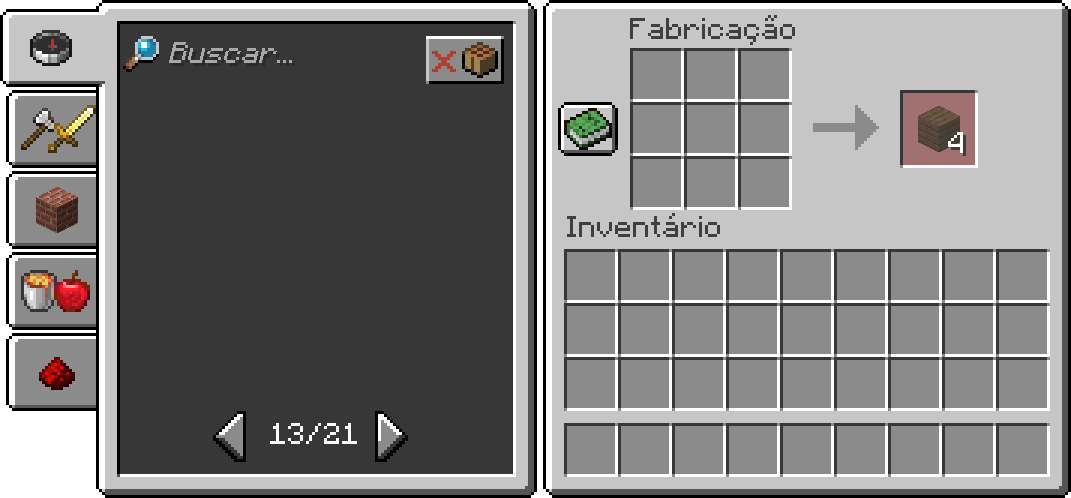
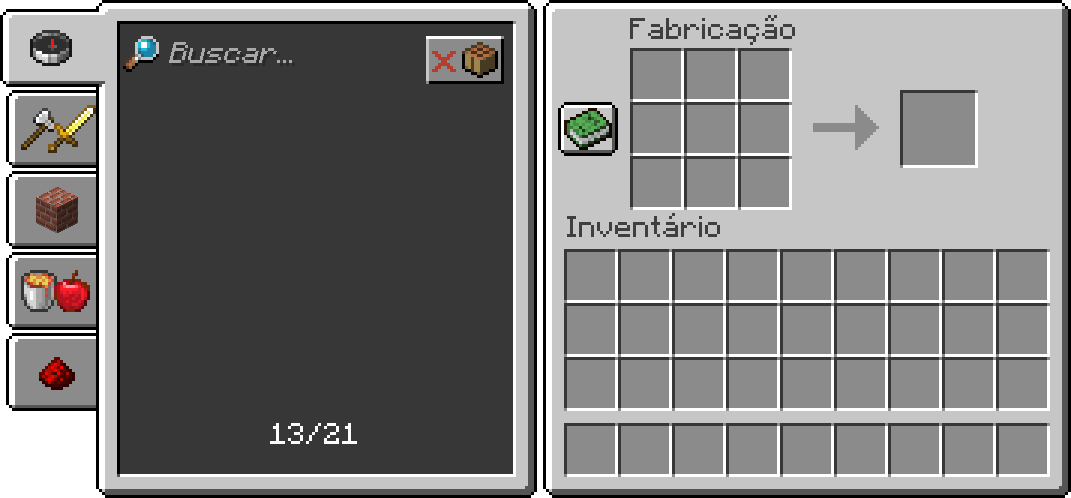
Crafting 2.0

Changed region(s): [[0.8319, 0.1807, 0.9244, 0.3313], [0.3389, 0.8133, 0.4006, 0.9337], [0.1849, 0.8133, 0.2465, 0.9337]]

diff --git a/JS/engine.js b/JS/engine.js
@@ -4,6 +4,7 @@ var prancheta = false, alvo_anterior = null, inicio = 0, posicao_scroll = 0, lib
 var qtd_itens = 0, qtd_itens_colet = 0, qtd_itens_renov = 0, qtd_itens_empil = 0, qtd_itens_colet_empil = 0, qtd_itens_colet_empil_n_renov = 0, qtd_itens_n_empil = 0;
 
 var graphics = 0, total_load = 50, dados_globais;
+var dados_itens = [];
 
 function gerencia_scroll(valor){
     libera_scroll = valor;
@@ -825,4 +826,54 @@ function carregamento_secundario(res_artigo, ia){
 
         carregamento_secundario(res_artigo, ia + 50);
     }, 5000);
+}
+
+function sincroniza_itens(craft, produto, qtd){
+
+    fetch('https://raw.githubusercontent.com/odnols/inventario-mine/main/JSON/dados_locais.json')
+    .then(response => response.json())
+    .then(async res_artigo => {
+        
+        dados_itens = res_artigo;
+        mostra_crafting(craft, produto, qtd);
+    });
+}
+
+function mostra_crafting(craft, produto, qtd){
+
+    const grid = document.getElementsByClassName('grid_craft');
+    let sprite_produto = "";
+
+    if(dados_itens.length < 1){
+        sincroniza_itens(craft, produto, qtd);
+        return;
+    }
+
+    for(let i = 0; i < grid.length; i++){
+
+        let sprite_item = "";
+
+        if(craft[i] !== null || typeof craft[i] !== "undefined"){
+            Object.keys(dados_itens).forEach(function(k){
+                if(k == craft[i])
+                    sprite_item = `IMG/Itens/new/${dados_itens[k]["tipo_item"]}/${dados_itens[k]["nome_icon"]}`;
+
+                if(k == produto)
+                    sprite_produto = `IMG/Itens/new/${dados_itens[k]["tipo_item"]}/${dados_itens[k]["nome_icon"]}`;
+            });
+            
+            grid[i].style.backgroundImage = `url('${sprite_item}')`;
+        }else
+            grid[i].style.backgroundImage = `None`;
+    }
+
+    Object.keys(dados_itens).forEach(function(k){
+        if(dados_itens[k]["id_item"] == produto)
+            sprite_produto = `IMG/Itens/new/${dados_itens[k]["tipo_item"]}/${dados_itens[k]["nome_icon"]}`;
+    });
+
+    document.getElementById("sprite_produto").innerHTML = "";
+    document.getElementById("sprite_produto").innerHTML += "<img src='"+ sprite_produto +"' style='width: 48px'>";
+
+    document.getElementById("qtd_produto").innerHTML = typeof qtd !== "undefined" ? qtd : null;
 }

diff --git a/CSS/style.css b/CSS/style.css
@@ -692,6 +692,31 @@ a{
     position: absolute;
     right: 279px;
 }
+#produto_final{
+    top: 90px;
+    width: 78px;
+    height: 78px;
+    z-index: 2;
+    position: absolute;
+    right: 93px;
+}
+#sprite_produto{
+    width: 48px;
+    height: 48px;
+    margin-left: 15px;
+    margin-top: 15px;
+    position: absolute;
+    float: left;
+    z-index: 0 !important;
+}
+#qtd_produto{
+    color: white;
+    font-size: 24px;
+    float: right;
+    padding-top: 36px;
+    padding-right: 12px;
+    text-shadow: 3px 3px 0px #3e3e3e;
+}
 .gric{
     width: 48px;
     height: 48px;

diff --git a/crafting.php b/crafting.php
@@ -35,6 +35,19 @@
         <a class="bttn_frrm" id="bttn_troca_tema" href="#" onclick="troca_tema()" onmouseover="toolTip('Altere entre o modo escuro e claro')" onmouseout="toolTip()"><span id="icone_tema">☀</span></a>
     </div>
 
+    <div id="minetip-tooltip">
+            <span id="nome_item_minetip"></span><br>
+            <span id="descricao_item_minetip"></span><br>
+            <span id="nome_interno_minetip"></span>
+        </div>
+        
+    <div id="botoes_ferramentas">
+        <a class="bttn_frrm" href="index.php" onmouseover="toolTip('O Gerenciador de itens')" onmouseout="toolTip()"><img src="img/interface/crafting_table.png"></a>
+
+        <?php if($executa->num_rows > 0) { ?> <!-- Só libera a utilização se houver dados -->
+        <a class="bttn_frrm" href="PHP/exportar_dados.php" onmouseover="toolTip('Exporte todos os dados para um JSON externo')" onmouseout="toolTip()">Exportar Dados</a> <?php } ?>
+    </div>
+
     <?php
         for($i = 1; $i <= 5; $i++){
             echo "<a href='#'><div class='item_crafting itc_$i' onclick='crafting_categoria($i)'></div></a>";
@@ -48,28 +61,31 @@
 
         <div id="grid_crafting">
             <?php for($i = 0; $i < 9; $i++){
-                echo "<div class='grid_craft gric gric_$i'></div>";
+                echo "<div class='grid_craft gric'></div>";
             } ?>
         </div>
 
+        <div id="produto_final">
+            <div id="sprite_produto"></div>
+            <div id="qtd_produto"></div>
+        </div>
 
         <div id="prancheta_itens_crafting">
 
-        <?php 
-
-        $i = 0;
+        <?php $i = 0;
 
         while($dados = $executa->fetch_assoc()){
             
             $programmer_art = $dados["programmer_art"];
             $tipo_item = $dados["abamenu"];
+            $id_item = $dados["id_item"];
             $nome_icon = $dados["nome_icon"];
             $geracao = "new";
 
             if($programmer_art == 1 && $graphics)
                     $geracao = "classic";
 
-            echo "<a href='#'><div class='slot_item_crafting'> <img class='sprite_slot_crafting' src='IMG/Itens/$geracao/$tipo_item/$nome_icon'></div></a>";
+            echo "<a href='#' onclick='mostra_crafting([null], $id_item, null)'><div class='slot_item_crafting'> <img class='sprite_slot_crafting' src='IMG/Itens/$geracao/$tipo_item/$nome_icon'></div></a>";
 
             if($i == 19)
                 break;
@@ -79,6 +95,7 @@
         </div>
     </div>
     
+    <script type="text/javascript" src="JSON/dados_locais.json"></script>
     <script src="JS/jquery-3.4.1.js"></script>
     <script src="JS/engine.js"></script>
 </body>
